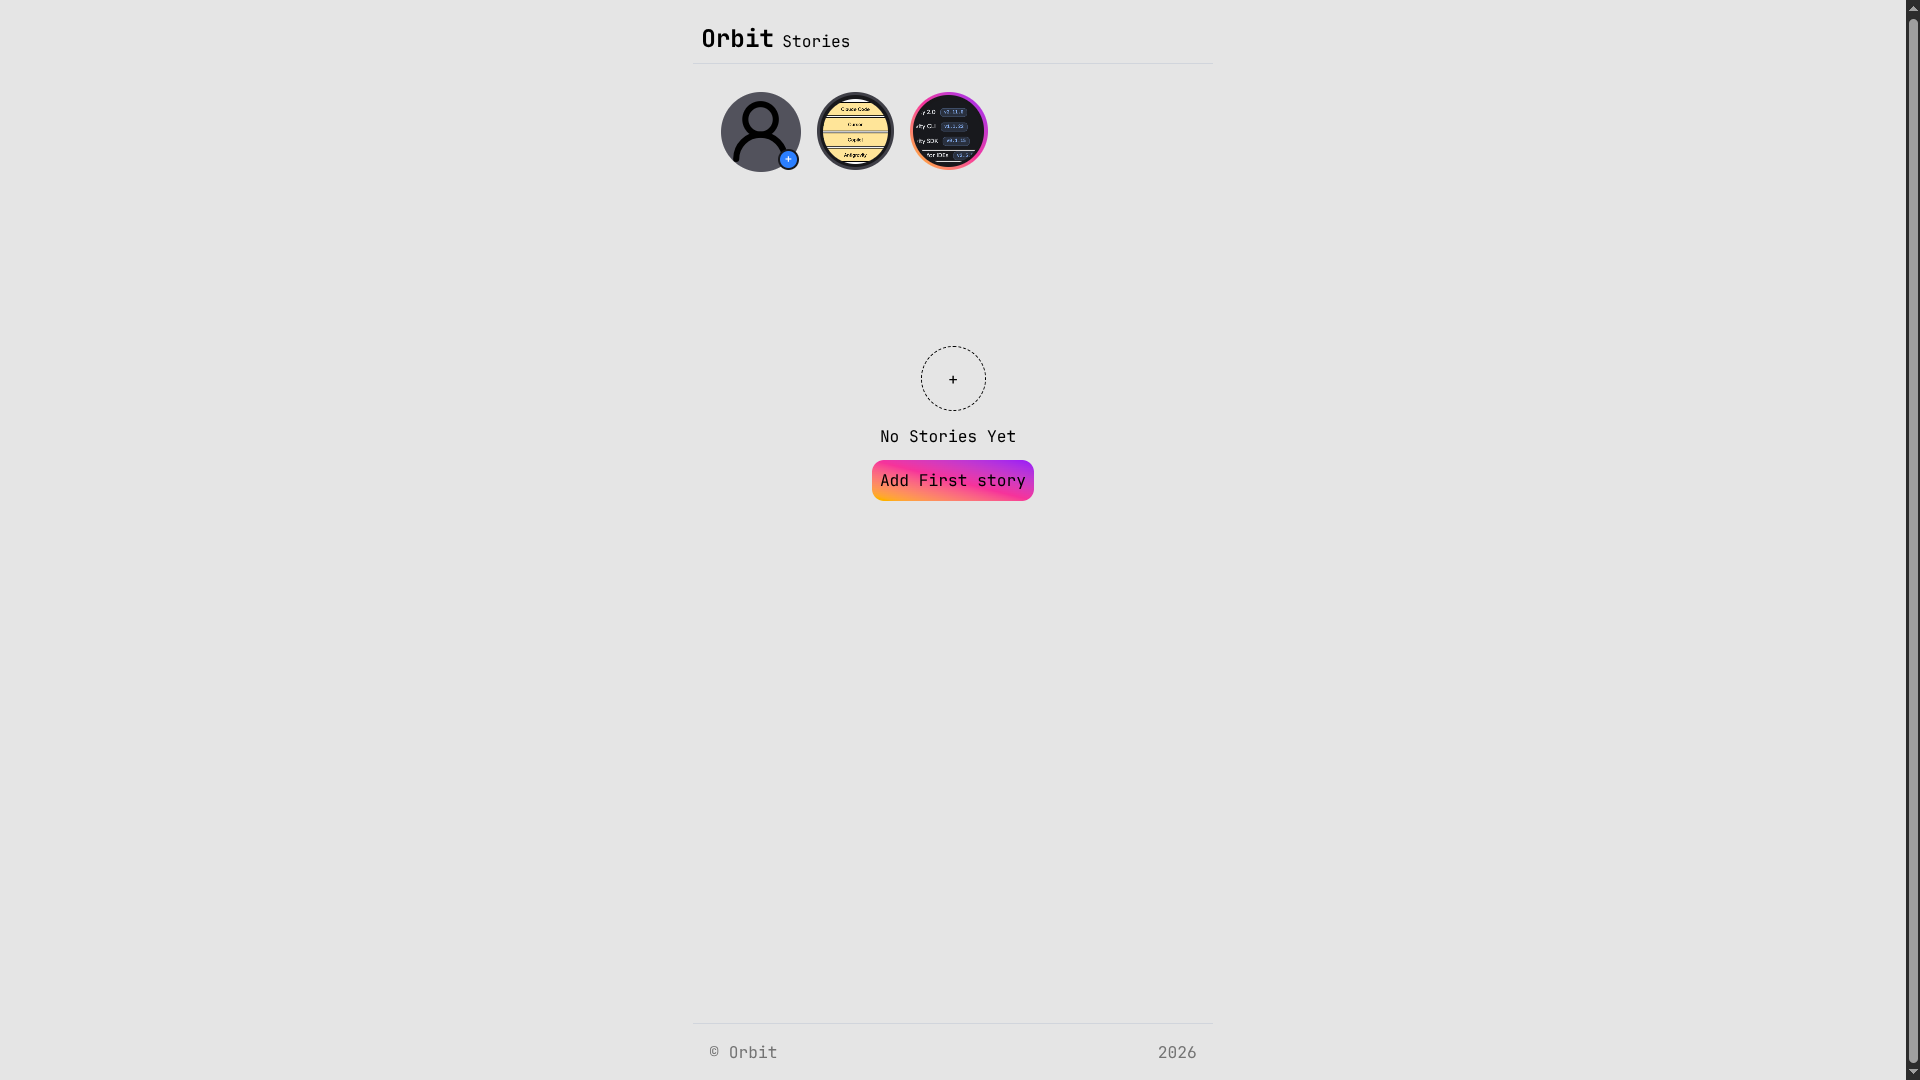
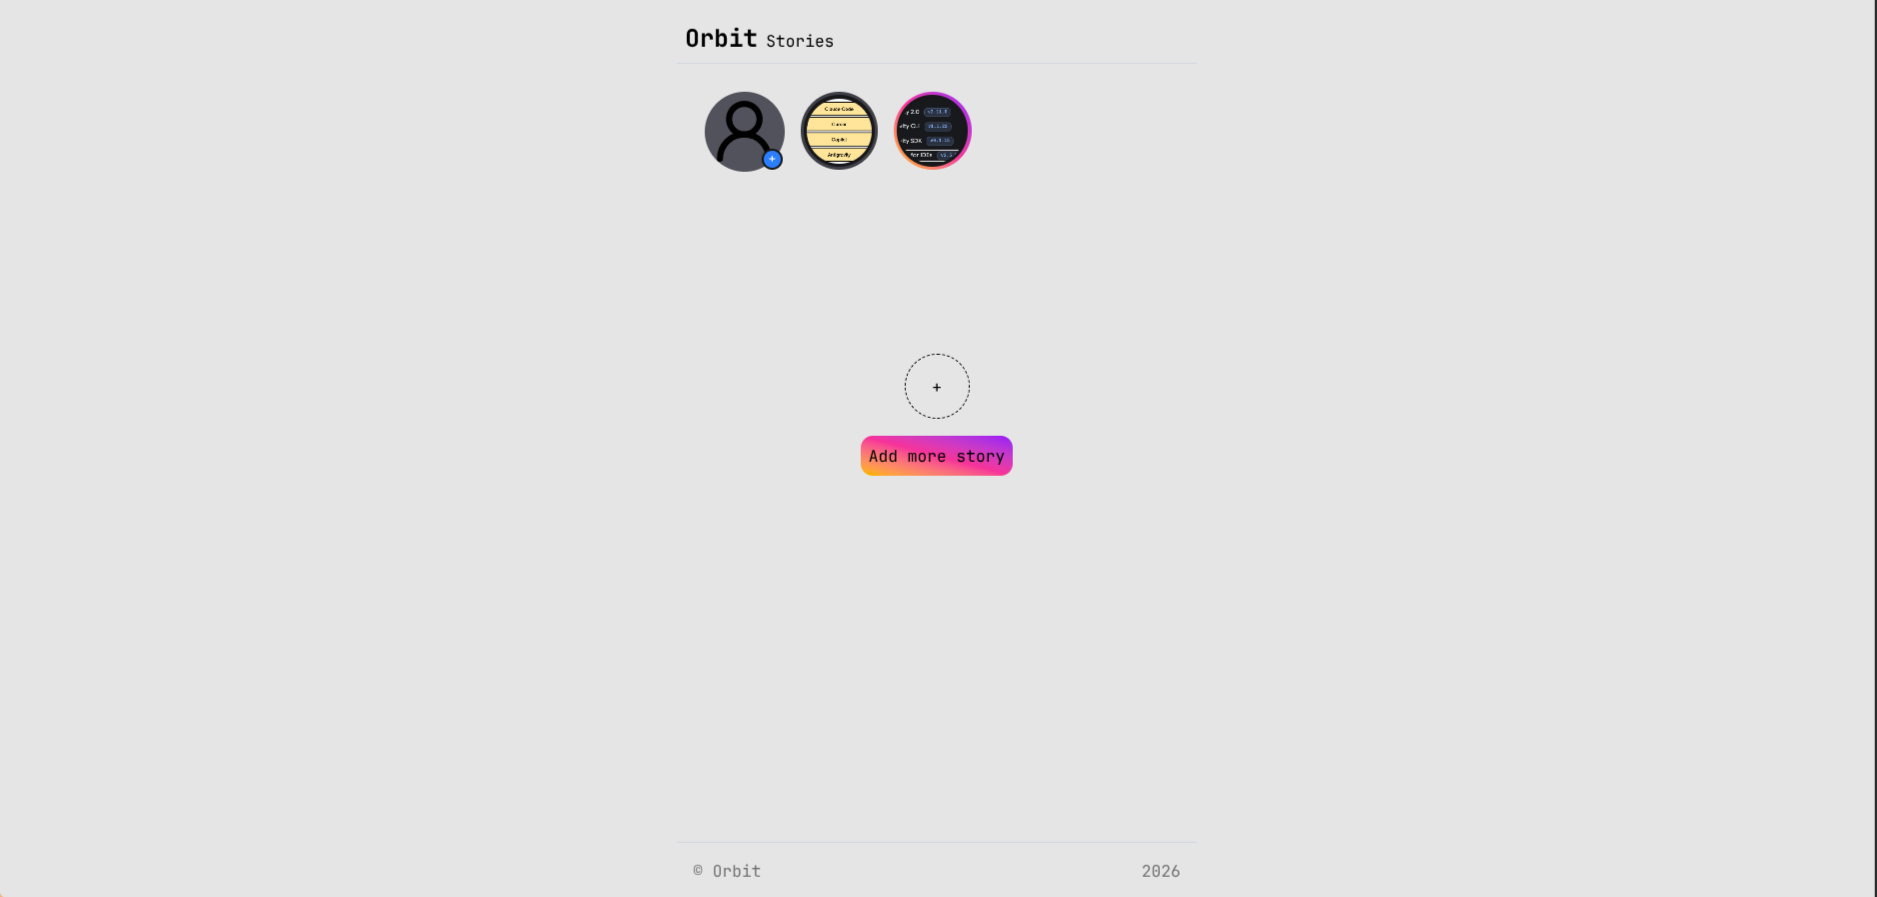
add somestory state

diff --git a/frontend/advanced/1-stories-feature/src/features/stories/components/storyhomepage.jsx b/frontend/advanced/1-stories-feature/src/features/stories/components/storyhomepage.jsx
@@ -1,16 +1,18 @@
 import { Storybar } from "./storybar";
 import { Emptystory } from "./emptystory";
 import { Addstorysheet } from "./addtostorysheet";
+import { Somestory } from "./somestory";
 import { useState } from "react";
-export function Homepage({stories,setStories}) {
+export function Homepage({ stories, setStories }) {
   const [isaddsheetopen, setIsaddsheetopen] = useState(false);
   return (
-    <div className="flex flex-col w-full max-w-lg">
-      <Storybar
-        stories={stories}
-        setIsaddsheetopen={setIsaddsheetopen}
-      />
-      <Emptystory setIsaddsheetopen={setIsaddsheetopen} />
+    <div className="flex flex-col gap-2 w-full max-w-lg">
+      <Storybar stories={stories} setIsaddsheetopen={setIsaddsheetopen} />
+      {stories ? (
+        <Somestory setIsaddsheetopen={setIsaddsheetopen} />
+      ) : (
+        <Emptystory setIsaddsheetopen={setIsaddsheetopen} />
+      )}
       {isaddsheetopen && (
         <Addstorysheet
           setStories={setStories}

diff --git a/frontend/advanced/1-stories-feature/src/features/stories/components/somestory.jsx b/frontend/advanced/1-stories-feature/src/features/stories/components/somestory.jsx
@@ -1,0 +1,10 @@
+export function Somestory({setIsaddsheetopen}) {
+  return (
+    <div className="flex mt-40 items-center flex-col flex-1">
+      <div className="flex flex-col gap-4">
+        <button className="bg-neutral-200 border border-dashed size-16 rounded-full self-center"onClick={()=>setIsaddsheetopen(true)} >+</button>
+        <button className="bg-linear-to-tr from-amber-400 via-pink-500 to-purple-600 rounded-xl p-2" onClick={()=>setIsaddsheetopen(true)}>Add more story</button>
+      </div>
+    </div>
+  );
+}
